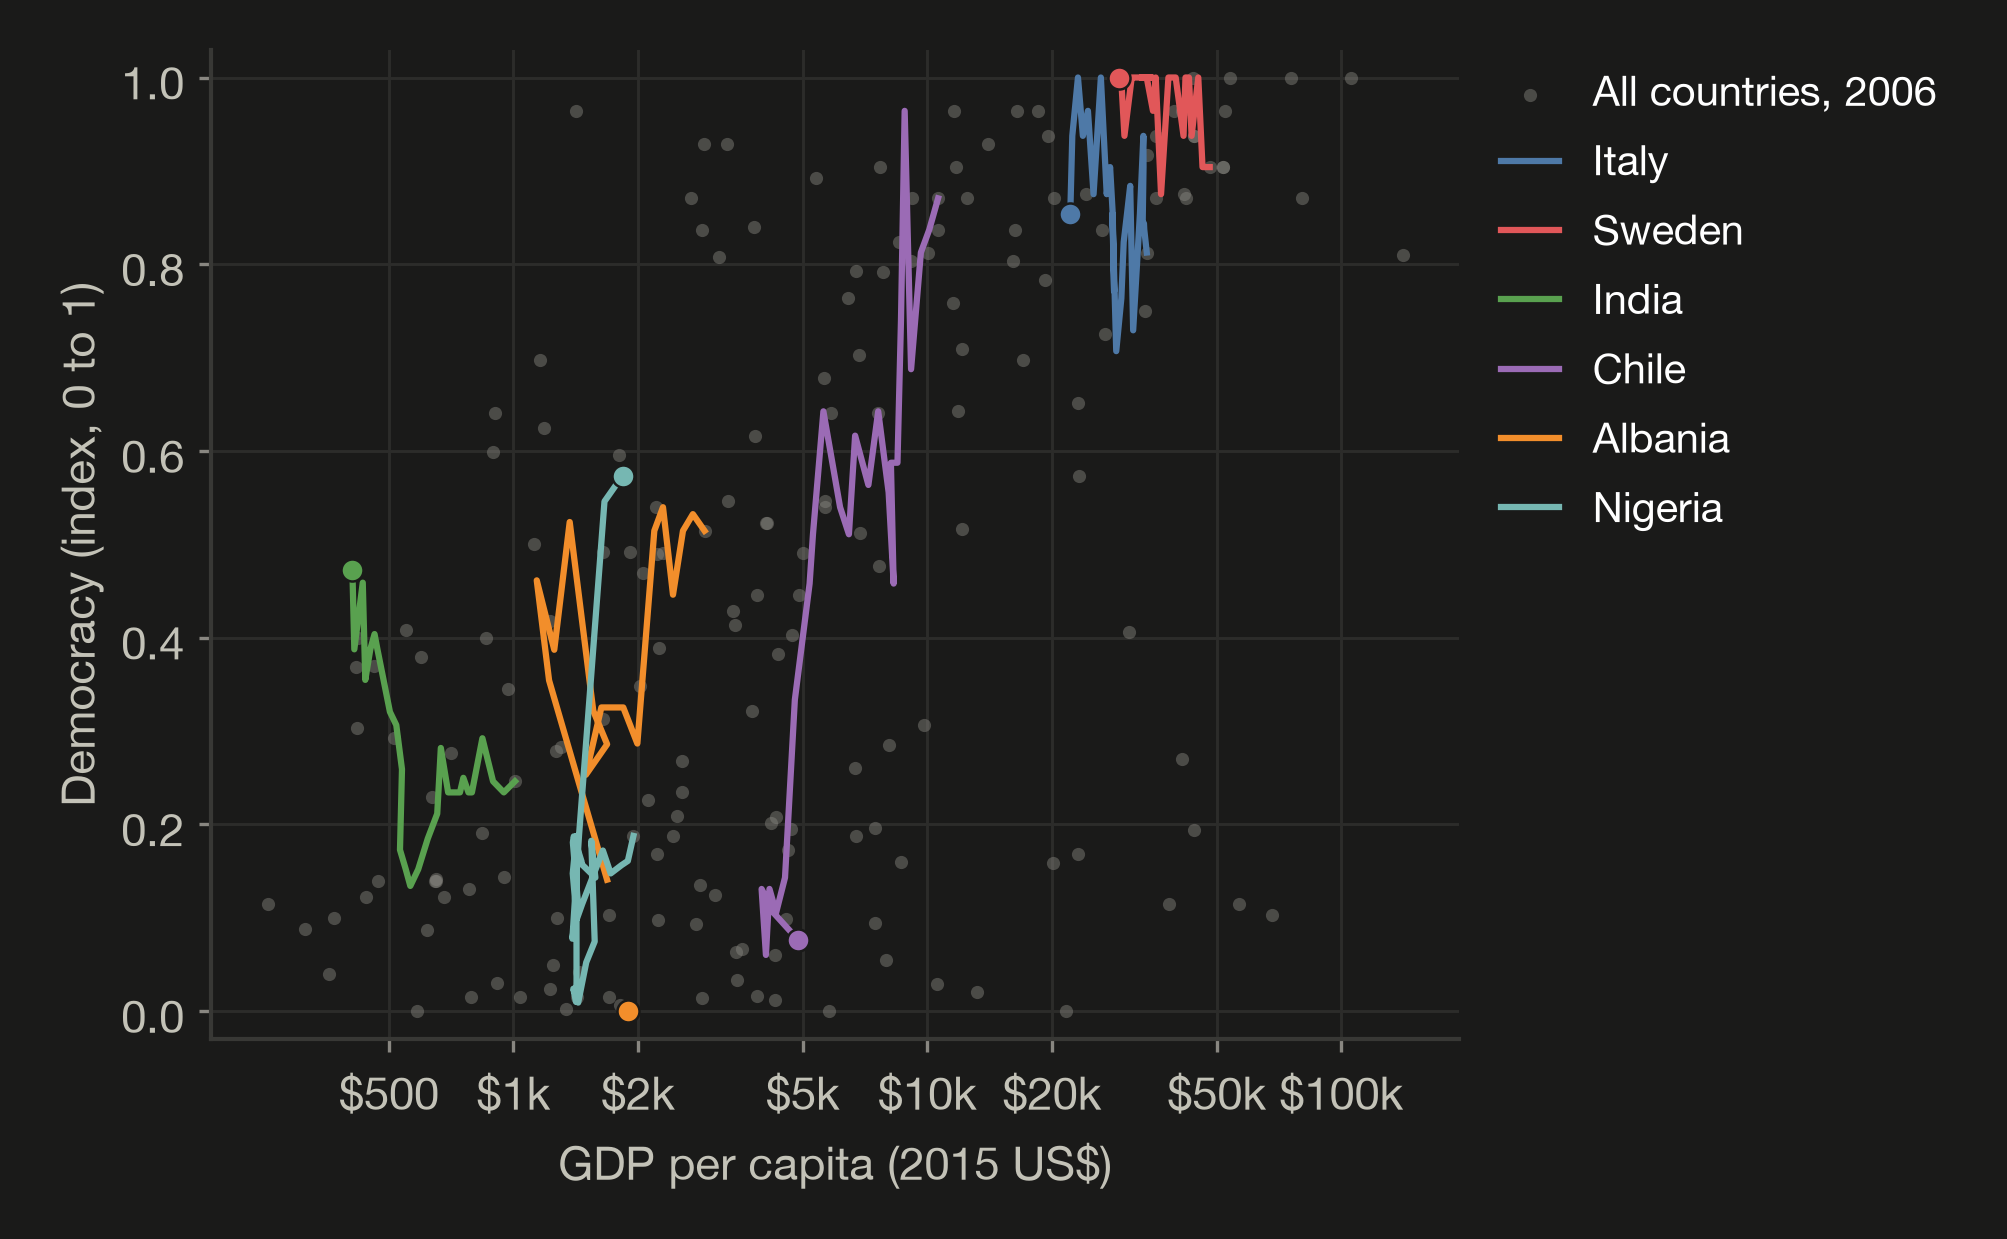
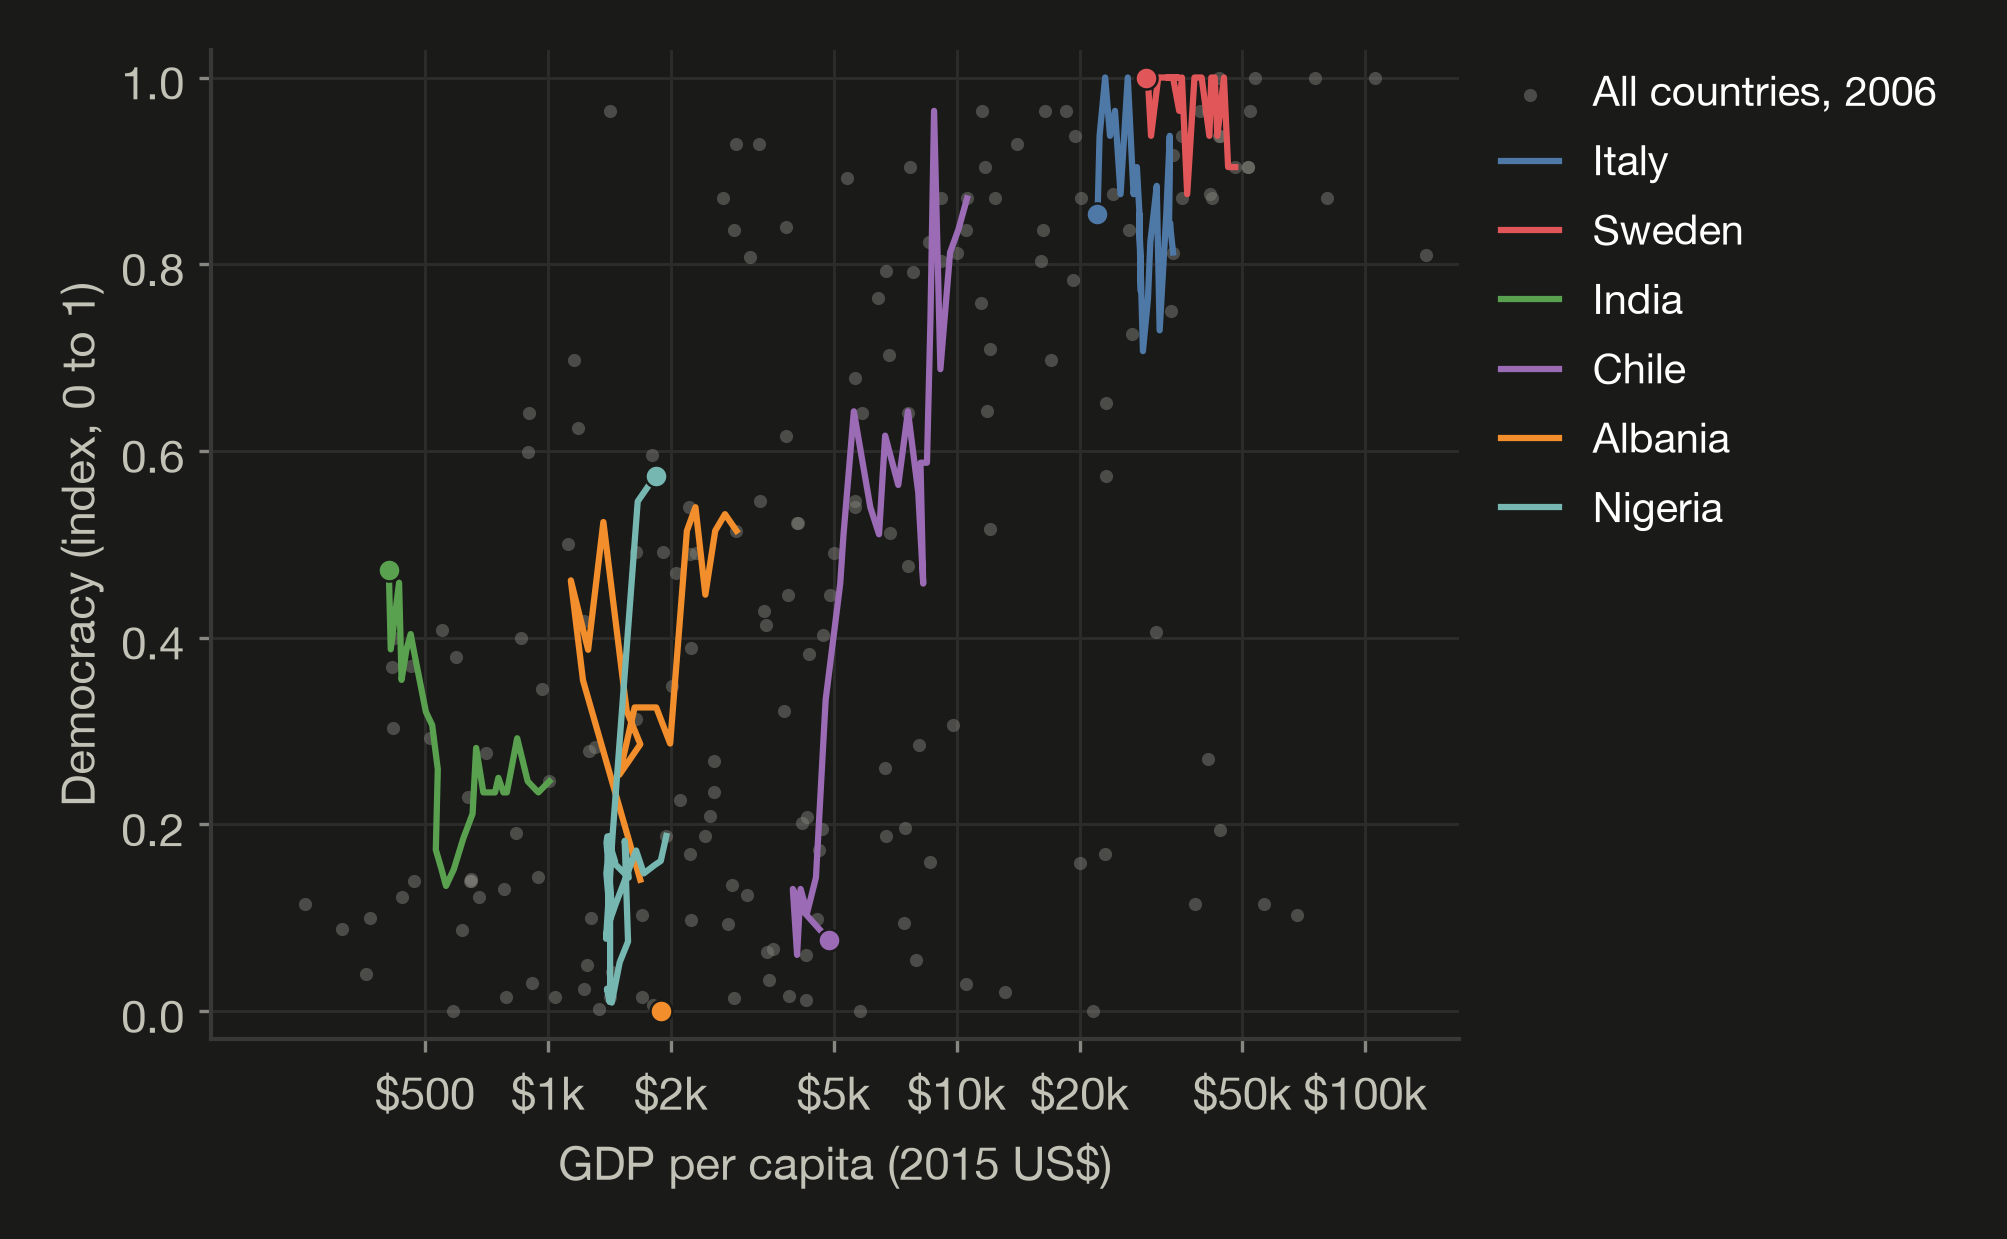
Step 3: Figure 3, the data phase portrait; shared GDP range for Figures 2-3

diff --git a/Code/05_fig_data_phase_portrait.py b/Code/05_fig_data_phase_portrait.py
@@ -1,0 +1,85 @@
+"""Figure 3: the data phase portrait.
+
+The observed yearly changes, averaged within cells of a grid over the state
+(G, D). Each arrow starts at the mean state of the observations in its cell and
+points along their mean change (dG, dD), multiplied by K years, so an arrow shows
+where a country starting there would be after K years at that average rate. Both
+components are scaled by the same K in model units, so arrow directions are true
+on these axes. Cells with fewer than MIN_N changes are left empty. The six
+representative countries' paths are drawn thinly in their fixed colours.
+
+Locked format: GDP per capita in constant 2015 US$ on a log axis (position is
+linear in G), democracy as an index 0 to 1, the six-colour palette, legend off
+the data.
+
+Reads Code/outputs/panel.csv. Writes outputs/figures/fig3_data_phase_portrait.png
+(light and dark), outputs/05_phase_cells.csv and outputs/05_phase_portrait_counts.txt.
+"""
+import matplotlib.pyplot as plt
+import numpy as np
+import pandas as pd
+from matplotlib.lines import Line2D
+
+from sds_common import (CM, D_LABEL, G_SCALE, GDP_LABEL, OUT, REP, REP_COLOUR,
+                        YEARS, USD_XLIM, dollar_axis, load_panel, save, style)
+
+K = 2          # arrow = average yearly change x K years (90th pct |dD| x K ~ one cell)
+MIN_N = 10     # minimum observed changes for a cell to get an arrow
+G_EDGES = np.arange(0.42, 1.00 + 1e-9, 0.04)   # G = ln(GDP)/12; 0.04 in G = x1.62 in GDP
+D_EDGES = np.linspace(0.0, 1.0, 11)            # 0.1 in democracy
+
+p = load_panel()
+ch = p.dropna(subset=["dD", "dG"]).copy()
+ch["g_bin"] = pd.cut(ch.G, G_EDGES, include_lowest=True)
+ch["d_bin"] = pd.cut(ch.D, D_EDGES, include_lowest=True)
+cells = (ch.groupby(["g_bin", "d_bin"], observed=True)
+           .agg(n=("dD", "size"), G=("G", "mean"), D=("D", "mean"),
+                dG=("dG", "mean"), dD=("dD", "mean"))
+           .reset_index())
+shown = cells[cells.n >= MIN_N].copy()
+
+usd = lambda g: np.exp(G_SCALE * g)
+years = np.arange(YEARS[0], YEARS[1] + 1)
+
+counts = [
+    f"changes used: {len(ch)}",
+    f"grid: {len(G_EDGES)-1} G bins of 0.04 x {len(D_EDGES)-1} D bins of 0.1",
+    f"occupied cells: {len(cells)}; cells with >= {MIN_N} changes (arrows): {len(shown)}",
+    f"changes in cells with arrows: {int(shown.n.sum())} of {len(ch)}",
+    f"arrow scale K = {K} years",
+    f"mean yearly dD over all changes: {ch.dD.mean():.4f}; mean yearly dG: {ch.dG.mean():.5f}"
+    f" (= {100*(np.exp(G_SCALE*ch.dG.mean())-1):.2f}% GDP growth per year)",
+]
+(OUT / "05_phase_portrait_counts.txt").write_text("\n".join(counts) + "\n")
+shown.assign(g_bin=shown.g_bin.astype(str), d_bin=shown.d_bin.astype(str)) \
+     .to_csv(OUT / "05_phase_cells.csv", index=False)
+print("\n".join(counts))
+
+for theme_name in ("light", "dark"):
+    t = style(theme_name)
+    fig, ax = plt.subplots(figsize=(17 * CM, 10.5 * CM))
+    for iso, name in REP.items():
+        s = p[p.iso3 == iso].set_index("year")[["G", "D"]].reindex(years)
+        ax.plot(usd(s.G.values), s.D.values, color=REP_COLOUR[iso], lw=1.0,
+                alpha=0.55, label=name, zorder=2)
+    arrow_col = t.text_primary
+    for r in shown.itertuples():
+        x0, y0 = usd(r.G), r.D
+        x1, y1 = usd(r.G + K * r.dG), r.D + K * r.dD
+        ax.annotate("", xy=(x1, y1), xytext=(x0, y0), zorder=4,
+                    arrowprops=dict(arrowstyle="-|>", color=arrow_col, lw=1.1,
+                                    mutation_scale=7, shrinkA=0, shrinkB=0))
+        ax.scatter([x0], [y0], s=6, color=arrow_col, zorder=5, lw=0)
+    dollar_axis(ax, "x")
+    ax.set_xlim(*USD_XLIM)
+    ax.set_ylim(-0.05, 1.05)
+    ax.set_xlabel(GDP_LABEL)
+    ax.set_ylabel(D_LABEL)
+    handles, labels = ax.get_legend_handles_labels()
+    handles = [Line2D([0], [0], color=arrow_col, lw=1.1)] + handles
+    labels = [f"Mean change, {K} years"] + labels
+    ax.legend(handles, labels, loc="upper left", bbox_to_anchor=(1.02, 1.0),
+              frameon=False, handlelength=1.4, borderaxespad=0.0)
+    fig.tight_layout()
+    path = save(fig, "fig3_data_phase_portrait", theme_name)
+    print(f"figure: {path}")

diff --git a/Code/04_fig_trajectories_plane.py b/Code/04_fig_trajectories_plane.py
@@ -13,7 +13,7 @@ import matplotlib.pyplot as plt
 import numpy as np
 
 from sds_common import (CM, D_LABEL, G_SCALE, GDP_LABEL, REP, REP_COLOUR, YEARS,
-                        dollar_axis, load_panel, save, style)
+                        USD_XLIM, dollar_axis, load_panel, save, style)
 
 p = load_panel()
 p["gdp_usd"] = np.exp(G_SCALE * p["G"])
@@ -33,6 +33,7 @@ for theme_name in ("light", "dark"):
         ax.scatter(first.gdp_usd, first.D, s=28, color=c, zorder=4,
                    edgecolors=t.surface, linewidths=0.6)
     dollar_axis(ax, "x")
+    ax.set_xlim(*USD_XLIM)
     ax.set_xlabel(GDP_LABEL)
     ax.set_ylabel(D_LABEL)
     ax.set_ylim(-0.03, 1.03)

diff --git a/Code/sds_common.py b/Code/sds_common.py
@@ -66,6 +66,8 @@ def save(fig, name: str, theme_name: str) -> Path:
 GDP_LABEL = "GDP per capita (2015 US$)"
 D_LABEL = "Democracy (index, 0 to 1)"
 GDP_TICKS = [500, 1000, 2000, 5000, 10000, 20000, 50000, 100000]
+# Shared GDP range for the plane figures and phase portraits, so their axes match.
+USD_XLIM = (150, 170000)
 
 
 def dollar_axis(ax, which: str = "x") -> None:

diff --git a/Appendix.md b/Appendix.md
@@ -167,6 +167,18 @@ Built by `Code/02_build_panel.py` from the step 1 decisions. Counts from `Code/o
 - **Units (contract rule added after the first render).** GDP is now plotted in constant 2015 US dollars on a logarithmic axis, with ticks from \$500 to \$100k. Democracy is labelled "index, 0 to 1". Positions are unchanged, because the axis is linear in $\ln(\text{GDP})$ and so in $G$. The plotted dollars are computed as $e^{12G}$, which matches the source's GDP per capita to within $4 \times 10^{-10}$. The GDP mean is $e^{12\bar G}$, the geometric mean of GDP per capita over the 84 countries. Two layout fixes followed: the first dollar labels overlapped in Figure 2, so ticks are written \$1k, \$10k and so on; and the long axis label was cut off in Figure 1, so it reads "GDP per capita (2015 US\$)", with "constant" stated in the captions. Superseded: the "Log GDP per capita ÷ 12" axis label above.
 - **Orientation.** GDP across and democracy up, as proposed and agreed, so the phase portraits can share these axes. The 2013 paper's phase portrait has democracy across and GDP up.
 
+### Figure 3: the data phase portrait (step 3)
+
+Made by `Code/05_fig_data_phase_portrait.py`. Counts from `Code/outputs/05_phase_portrait_counts.txt`; cell values in `Code/outputs/05_phase_cells.csv`.
+
+- **Design.** The 3,423 yearly changes are averaged within a grid over the state.
+  - Cells are 0.04 wide in $G$, a factor of $e^{0.48} \approx 1.62$ in GDP per capita, and 0.1 high in democracy. That gives 14 by 10 cells, 114 of them occupied.
+  - Each arrow starts at the mean $(G, D)$ of the cell's country-years and points along their mean $(\Delta G, \Delta D)$ times $K$.
+  - Both components are scaled by the same $K$ in model units, so directions are true on these axes. On the dollar axis the horizontal length is proportional GDP growth.
+- **Choices after the first render.** The first draft used $K = 5$ years and at least 5 changes per cell. Arrows ran through neighbouring cells, and cells with few changes gave erratic averages (for example near \$100k). The cell-average $|\Delta D|$ has median 0.013 and 90th percentile 0.044. With $K = 2$, the 90th percentile arrow is about one cell high (0.09). Raising the minimum from 5 to 10 changes per cell drops 15 cells: from 98 to 83 arrows, and from 3,397 to 3,289 changes represented. Superseded: $K = 5$, at least 5 changes.
+- **Shared axis range.** Figures 2 and 3 now share a fixed GDP range, \$150 to \$170,000 (`USD_XLIM` in `sds_common.py`), so the two can be laid over each other. The first draft of Figure 3 was cut at the grid edges, and with its longer legend label the \$50k and \$100k ticks collided.
+- **Not used in the report.** Over all changes, the mean yearly change is 0.0023 in democracy and 0.00141 in $G$, which is 1.70% growth in GDP per capita a year.
+
 ## Analysis Log
 
 *A numbered row per step taken, added as the work happens. What was done, what it changed, and where the output is. Superseded decisions stay, marked as such — a reader cannot judge a choice without seeing the alternatives.*
@@ -188,6 +200,7 @@ Built by `Code/02_build_panel.py` from the step 1 decisions. Counts from `Code/o
 | 13 | Step 3. Built the analysis panel: 3,679 country-years, 3,423 changes. Drew Figures 1 (trajectories over time) and 2 (trajectories in the $(G, D)$ plane) and added them to `Results` with captions and a paragraph saying how to read them. They sit above the sub-question sub-headings, because they describe the data for all three sub-questions. |
 | 14 | Step 3. A contract rule says every variable is shown in interpretable units, so we see GDP in money. Figures 1 and 2 were redrawn with GDP in constant 2015 US dollars on a log axis. The captions and the `Results` paragraph were updated, and the `Introduction` now gives GDP's range in dollars (about \$160 to \$140,000 per person, from `panel.csv`: 164.7 to 140,615). | `instructions.md`; `Code/sds_common.py`; Figures 1–2; `Report.md` | `Code/02_build_panel.py`, `Code/03_fig_trajectories_time.py`, `Code/04_fig_trajectories_plane.py`; `Report.md` `Results` |
 | 15 | Step 3. At the user's request, dropped the mean from Figures 1 and 2: "We don't need it". A contract change locks the figure format: no mean, the user's style in the workspace themes, dollar log axes, axis labels with units, the legend off the data. Figures 1 and 2 and their scripts are the reference. It also adds "always use units when available". Figures redrawn; the `Results` paragraph and captions updated. | `instructions.md`; Figures 1–2; `Report.md` |
+| 16 | Step 3. Made Figure 3, the data phase portrait: cell-average yearly changes on a 14 × 10 grid, arrows scaled to 2 years, cells with at least 10 changes (83 cells, 3,289 of 3,423 changes). It was redrawn once after inspection (first draft: 5 years, at least 5 changes). Figures 2 and 3 now share a fixed GDP range. Added to `Results` with a reading paragraph and caption. | `Code/05_fig_data_phase_portrait.py`; `Report.md` `Results` |
 
 ## Code Summary
 
@@ -198,6 +211,7 @@ Built by `Code/02_build_panel.py` from the step 1 decisions. Counts from `Code/o
 | `Code/02_build_panel.py` | Applies the step 1 decisions and builds the panel: countries only, −99 set to missing, join on ISO3, $G = \ln(\text{GDP})/12$, 1981–2006, consecutive-year changes, and the balanced-country flag. Fits nothing. Run with `cd Code && uv run python 02_build_panel.py`. | Both source files, as above | `Code/outputs/panel.csv` (gitignored: row-level QoG data); `Code/outputs/02_panel_counts.txt` |
 | `Code/03_fig_trajectories_time.py` | Figure 1: democracy and GDP per capita (dollars, log axis) against year for the six countries. Light and dark. | `Code/outputs/panel.csv` | `Code/outputs/figures/fig1_trajectories_time.png`, `…/dark/…` |
 | `Code/04_fig_trajectories_plane.py` | Figure 2: the six countries' paths in the GDP–democracy plane (dollars, log axis), over all countries in 2006. Light and dark. | `Code/outputs/panel.csv` | `Code/outputs/figures/fig2_trajectories_plane.png`, `…/dark/…` |
+| `Code/05_fig_data_phase_portrait.py` | Figure 3: cell-average observed yearly changes as arrows on the GDP–democracy plane, with the six countries' paths faint. Parameters: `K = 2` (arrow years), `MIN_N = 10` (minimum changes per cell), $G$ bins of 0.04 from 0.42 to 1.00, $D$ bins of 0.1. | `Code/outputs/panel.csv` | `Code/outputs/figures/fig3_data_phase_portrait.png`, `…/dark/…`; `Code/outputs/05_phase_cells.csv`; `Code/outputs/05_phase_portrait_counts.txt` |
 
 Run order: `01_describe_data.py` (description only), then `02_build_panel.py`, then the figure scripts in any order. The scripts in `Code/` import `sds_common.py` from their own directory, so they are run without Python's isolated mode (`-I`). No downloaded file is on the import path.
 

diff --git a/Report.md b/Report.md
@@ -25,6 +25,7 @@ Rather than relating the level of one variable to the level of the other, we mod
 ## Results
 
 Figures 1 and 2 show the same data in two ways. Figure 1 plots each variable against time. Figure 2 plots the two variables against each other, so that a country's path through the figure is the sequence of states it passed through between 1981 and 2006. In Figure 2, a line moving up is a country becoming more democratic, and a line moving right is a country becoming richer. GDP is on a logarithmic scale, so equal distances are equal proportional changes: moving from \$1,000 to \$2,000 is the same distance as moving from \$10,000 to \$20,000.
+
 ![Figure 1](Code/outputs/figures/fig1_trajectories_time.png)
 
 <small><b>Figure 1.</b> Democracy, <em>D</em> (left), and GDP per capita in constant 2015 US dollars on a logarithmic scale (right), from 1981 to 2006. Lines are six countries: Italy, Sweden, India, Chile, Albania and Nigeria. Albania has no observations for 1985–1989, shown as a gap.</small>
@@ -32,6 +33,12 @@ Figures 1 and 2 show the same data in two ways. Figure 1 plots each variable aga
 ![Figure 2](Code/outputs/figures/fig2_trajectories_plane.png)
 
 <small><b>Figure 2.</b> Democracy, <em>D</em>, against GDP per capita in constant 2015 US dollars on a logarithmic scale. Grey points are the 181 countries with both variables in 2006. Coloured lines are the paths of the six countries in Figure 1 from 1981 to 2006, with a filled circle at 1981.</small>
+
+Figure 3 summarises all 3,423 observed yearly changes on the same axes as Figure 2. The plane is divided into a grid of cells, and each arrow stands for the country-years in one cell. It starts at their average position and points along their average yearly change, drawn over two years so that it is long enough to see. An arrow pointing up is a cell in which democracy rose on average. An arrow pointing right is a cell in which GDP per capita grew, and because the GDP axis is logarithmic, the arrow's horizontal length is proportional growth.
+
+![Figure 3](Code/outputs/figures/fig3_data_phase_portrait.png)
+
+<small><b>Figure 3.</b> Observed yearly changes in democracy and GDP per capita (constant 2015 US dollars, logarithmic scale), averaged within cells of a grid. Each cell spans a factor of about 1.6 in GDP per capita and 0.1 in democracy. Each arrow starts at the average position of the country-years in its cell, marked by a dot, and shows their average yearly change multiplied by two. Cells with fewer than 10 yearly changes have no arrow; the 83 cells with arrows hold 3,289 of the 3,423 changes. Faint lines are the paths of the six countries in Figures 1 and 2.</small>
 
 ## Discussion
 
